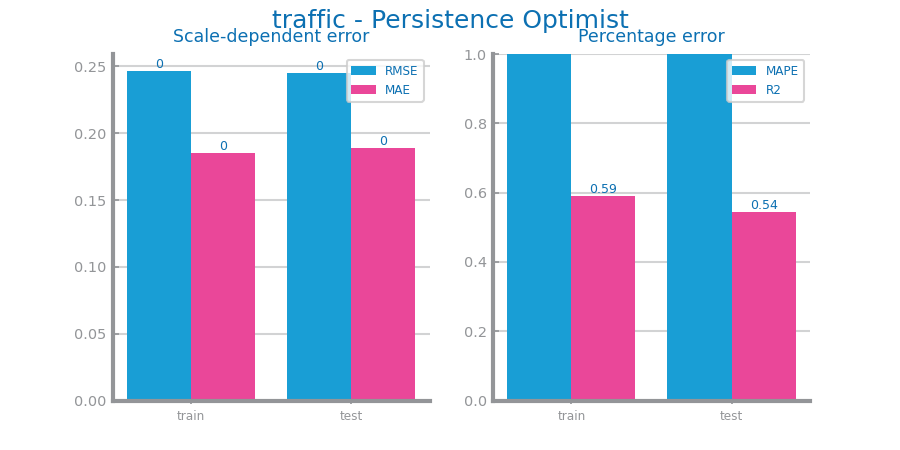
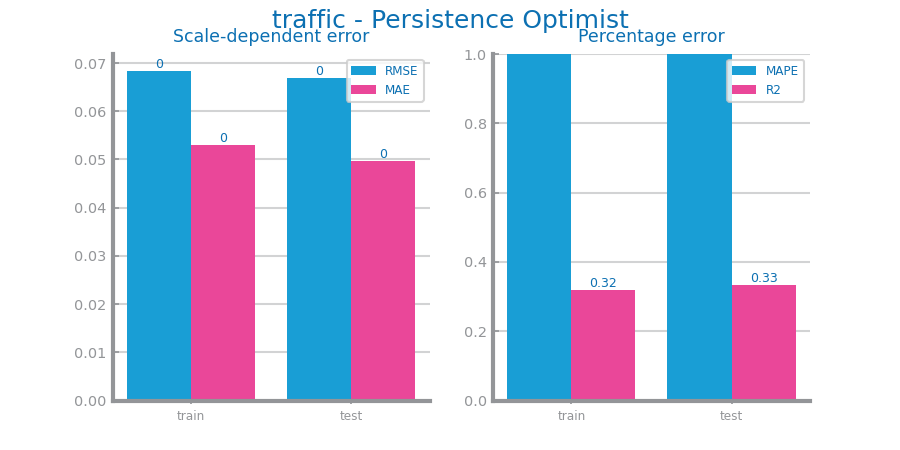
Time Series

diff --git a/TimeSeries.py b/TimeSeries.py
@@ -43,8 +43,8 @@ data: DataFrame = read_csv(
     parse_dates = True,
     infer_datetime_format = True,
 )
-data.sort_index(inplace=True)
-series: Series = data[target]
+# data.sort_index(inplace=True)
+# series: Series = data[target]
 
 # ---------------------------------------
 #             Profiling
@@ -118,10 +118,10 @@ df = aggregation.ts_aggregation_df("H")
 # -------------------- #
 
 smoothing = ts_Smoothing(filename, file_tag, df, target, index)
-# smoothing.ts_smoothing()
-# smoothing.ts_smoothing_lr()
+smoothing.ts_smoothing()
+smoothing.ts_smoothing_lr()
 
-series = smoothing.ts_smoothing_size(15)
+series = smoothing.ts_smoothing_size(50)
 #size 50?
 
 # -------------------- #
@@ -220,3 +220,6 @@ train, test = series[:train_size], series[train_size:]
 
 lstm = ts_LSTM(train, test, file_tag, target, index,series2,train_size)
 lstm.lstm_study(3000)
+
+# {'name': 'LSTM', 'metric': 'R2', 'params': (4, 25, 3000)}
+# LSTM best results achieved with length=4 hidden_units=25 and nr_episodes=3000) ==> measure=0.67

diff --git a/timeSeries/transformation/ts_smoothing.py b/timeSeries/transformation/ts_smoothing.py
@@ -17,7 +17,7 @@ class ts_Smoothing:
         self.series: Series = self.data[self.target]
 
     def ts_smoothing(self):
-        sizes: list[int] = [5, 10, 15, 20]
+        sizes: list[int] = [25, 50, 75, 100]
         fig: Figure
         axs: list[Axes]
         fig, axs = subplots(len(sizes), 1, figsize=(3 * HEIGHT, HEIGHT / 2 * len(sizes)))
@@ -36,7 +36,7 @@ class ts_Smoothing:
         savefig(f"images/timeSeries/transformation/smoothing/{self.file_tag}_{self.target}_smoothing.png")
 
     def ts_smoothing_lr(self):
-        sizes: list[int] = [5, 10, 15, 20]
+        sizes: list[int] = [25, 50, 75, 100]
         for i in range(len(sizes)):
             lr_series = self.data.rolling(window=sizes[i]).mean()
             train, test = series_train_test_split(lr_series.dropna(), trn_pct=0.90)
